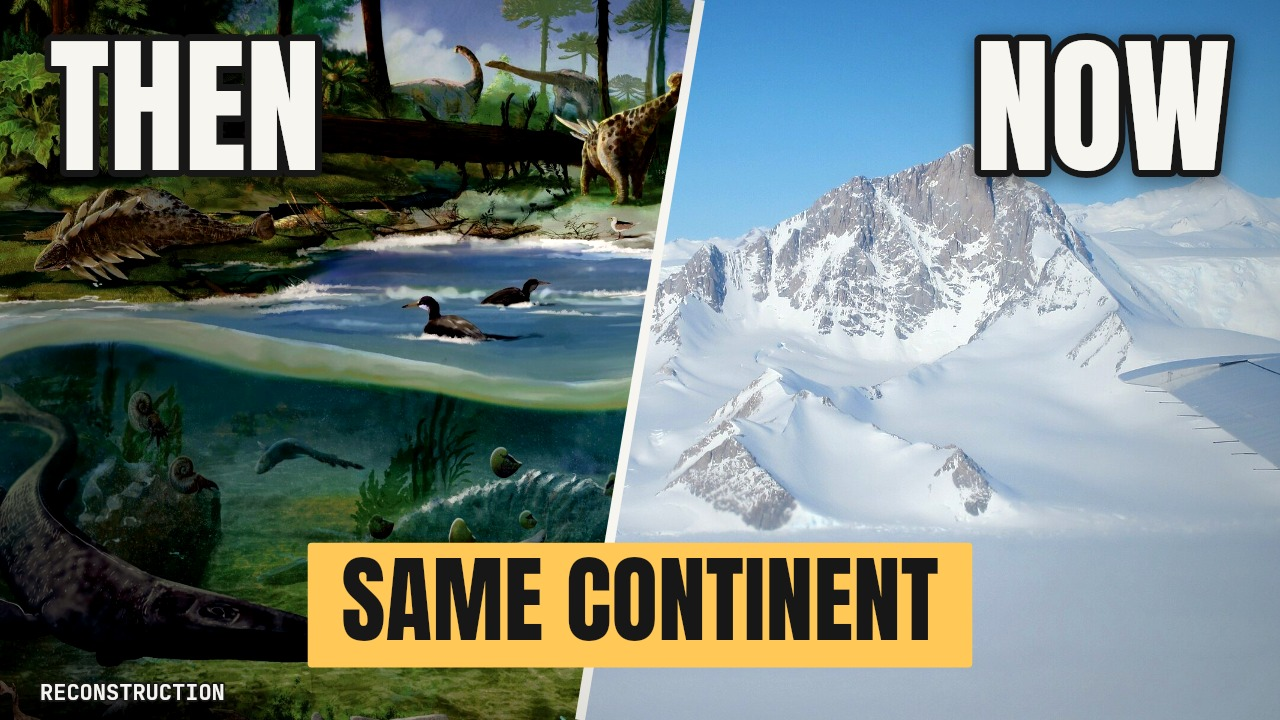
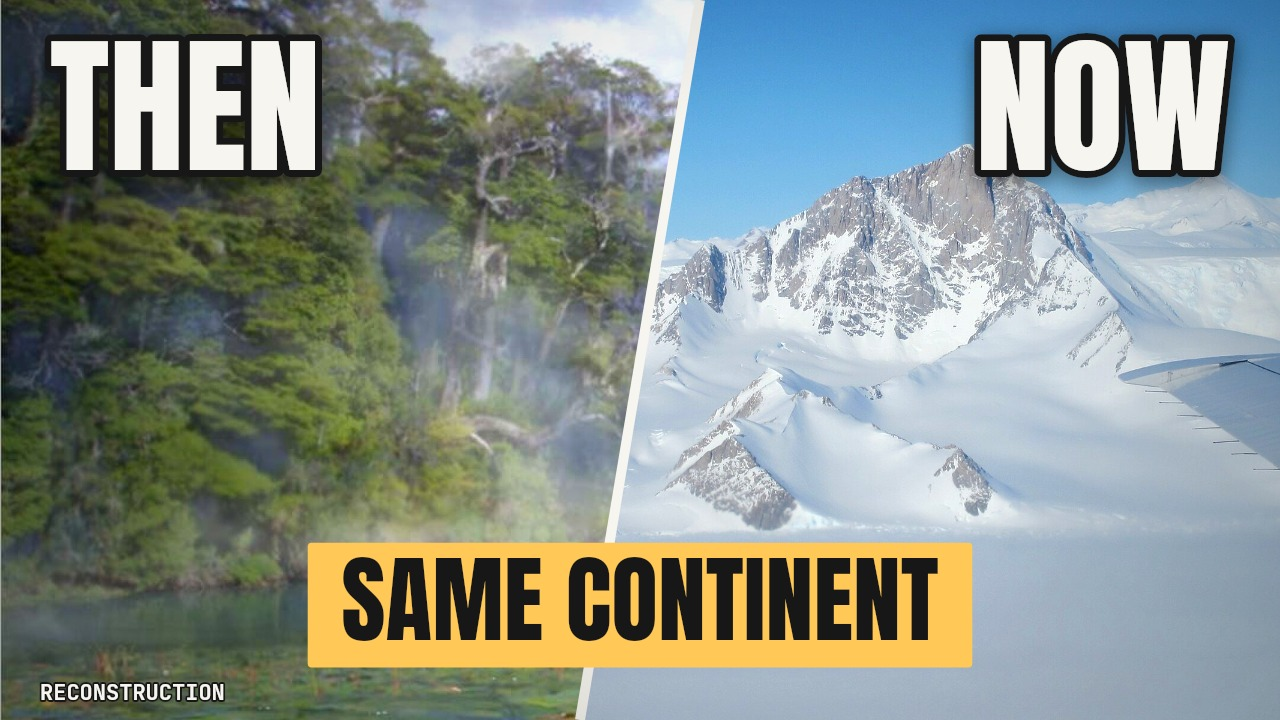
EP13 critic fixes v2: shots, covers, kit
Claude-Session: https://claude.ai/code/session_01RM84ZkH4GSp4TtDDAc4P7c

diff --git a/whyhow/ep13_green_antarctica/shots.js b/whyhow/ep13_green_antarctica/shots.js
@@ -75,7 +75,7 @@ function build(T) {
   ]);
   beats('A004', [
     Wd('gov_nasa_lima_transantarctic_peaks', { over: [low('TODAY: THE COLDEST, DRIEST CONTINENT', 'coldest'), note('TRANSANTARCTIC MOUNTAINS (NASA LANDSAT)')] }),
-    A('cm_reconstruction_hanson_formation_eruption', { cutW: 'forests', over: [note('EARLY JURASSIC ANTARCTICA · ' + REC)] }),
+    A('cm_cryolophosaurus_field_museum_mount', { cutW: 'forests', over: [note('ANTARCTIC DINOSAUR CRYOLOPHOSAURUS (CAST), FIELD MUSEUM')] }),
     F('px_tasmania_rainforest_creek_drone', { cutW: 'About', over: [low('~90 MILLION YEARS AGO: A RAINFOREST', 'rainforest'), note('TEMPERATE RAINFOREST, TASMANIA · ' + IL)] }),
     S('globe', ANT({ cutW: 'nine', lon: [[0, -100], [3, -107]], lat: [[0, -78], [3, -80]], R: [[0, 1300], [3, 1700]], pins: [{ ...G.sp, label: 'SOUTH POLE', at: 0.2, small: true, size: 40, color: C('iceL') }, { ...G.amund, label: 'RAINFOREST ROOTS (CORE 2017)', w: 'nine', small: true, size: 40 }], routes: [{ pts: [pt(G.amund), [-100, -86], pt(G.sp)], w: 5, at: 1.2, dur: 1.4, label: '~900 KM (560 MI)', ly: 50 }] })),
   ]);
@@ -86,14 +86,15 @@ function build(T) {
   ]);
   beats('A007', [
     A('cm_reconstruction_great_cretaceous_ocean_1898', { kb: { z: [1.0, 1.15] }, over: [head('THE ASTEROID?', null, 170, 100, Yc), note('"THE GREAT CRETACEOUS OCEAN", 1898 · ' + REC)] }),
-    A('px_palm_forest_mist', { cutW: 'after', kb: { z: [1.25, 1.05] }, over: [low('AFTER IT: EVEN WARMER · PALMS ON THE COAST', 'Palm'), note('PALMS TODAY · ' + IL)] }),
+    F('px_palm_trees_from_below', { cutW: 'after', over: [low('AFTER IT: EVEN WARMER', 'warmer'), note('PALMS TODAY · ' + IL)] }),
+    F('px_jungle_volcano_palms_aerial', { cutW: 'Palm', over: [low('PALMS ON THE COAST', 'Palm'), note('PALM FOREST TODAY · ' + IL)] }),
   ]);
   beats('A008', [
     A('cm_cryolophosaurus_field_museum_aurora', { cutW: 'First', over: [low('1 · DINOSAURS IN THE DARK', 'dinosaurs'), note('CRYOLOPHOSAURUS CAST, FIELD MUSEUM')] }),
     F('gov_nasa_sea_ice_ring_antarctica', { cutW: 'Then', over: [low('2 · THE SLOW FREEZE', 'freeze'), note('NASA VISUALIZATION')] }),
     F('gov_nasa_bedmap2_ice_peels_off', { cutW: 'what', over: [low('3 · WHAT THE ICE HIDES', 'hides'), note('NASA VISUALIZATION (BEDMAP2)')] }),
   ]);
-  add(T.e('A008') + 0.15, S('title', { lines: ['WHEN ANTARCTICA', 'WAS GREEN'], hl: 1, img: 'cm_reconstruction_snow_hill_island_cretaceous', credit: credit('cm_reconstruction_snow_hill_island_cretaceous') + ' · reconstruction', brand: true, sfx: 'riser' }), 'cut');
+  add(T.e('A008') + 0.15, S('title', { lines: ['WHEN ANTARCTICA', 'WAS GREEN'], hl: 1, img: 'cm_reconstruction_eocene_antarctic_pond', credit: credit('cm_reconstruction_eocene_antarctic_pond') + ' · reconstruction', brand: true, sfx: 'riser' }), 'cut');
 
   // ===== CH1 =====
   beats('A009', [
@@ -113,7 +114,7 @@ function build(T) {
   ]);
   beats('A012', [A('cm_transantarctic_above_clouds', { over: [low('INDIA HITS ASIA → THE HIMALAYAS', 'Himalayas'), note('HIGH PEAKS (TRANSANTARCTIC MOUNTAINS) · ' + IL)] })]);
   beats('A013', [
-    A('cm_map_gondwana_breakup_80ma_grobe', { over: [note('MAP: 80 MILLION YEARS AGO (H. GROBE / AWI)')] }),
+    A('cm_map_south_atlantic_opens_126ma', { over: [note('MAP: 126 MILLION YEARS AGO (GPLATES)')] }),
     A('cm_map_gondwana_breakup_65ma_grobe', { cutW: 'Animals', over: [low('STILL JOINED TO SOUTH AMERICA AND AUSTRALIA', 'joined'), note('MAP: 65 MILLION YEARS AGO')] }),
     S('globe', ANT({ cutW: 'by', pins: [{ ...G.sp, label: 'SOUTH POLE', at: 0.2, small: true, size: 40 }] })),
   ]);
@@ -141,13 +142,13 @@ function build(T) {
     A('cm_reconstruction_glacialisaurus_model', { cutW: 'Two', over: [note('MUSEUM MODEL: GLACIALISAURUS AND CRYOLOPHOSAURUS · ' + REC)] }),
   ]);
   beats('A019', [
-    A('cm_reconstruction_snow_hill_island_cretaceous', { over: [note('LATE CRETACEOUS ANTARCTICA · ' + REC + ' · M. CHARNELLI')] }),
+    A('cm_reconstruction_antarctopelta_vegavis_drawing', { over: [note('LATE CRETACEOUS ANTARCTICA · ' + REC)] }),
     S('globe', ANT({ cutW: 'In', lon: [[0, -100], [3, -107]], lat: [[0, -72], [3, -74]], R: [[0, 1700], [3, 3200]], pins: [{ ...G.amund, label: 'AMUNDSEN SEA CORE, 2017', at: 0.4, small: true, size: 44 }] })),
-    F('px_tasmania_rainforest_creek_drone', { cutW: 'The', in: 3, over: [low('SOIL + A 3-M WEB OF FOSSIL ROOTS', 'roots'), note('SWAMPY TEMPERATE RAINFOREST, TASMANIA · ' + IL)] }),
+    F('px_misty_conifer_forest_hills', { cutW: 'The', over: [low('SOIL + A 3-M WEB OF FOSSIL ROOTS', 'roots'), note('SWAMPY TEMPERATE RAINFOREST, TASMANIA · ' + IL)] }),
     A('cm_andrill_core_table', { cutW: 'swampy', over: [note('A SEABED CORE FROM ANTARCTICA (ANDRILL) · ' + IL)] }),
   ]);
   beats('A020', [
-    S('stats', { head: 'NOVEMBER 2024', items: [], sfx: 'boom', over: [at(head('THE FIRST AMBER', null, 500, 110, Yc), 0.3), at(head('EVER FOUND IN ANTARCTICA', null, 630, 70), 0.6)], source: 'Source: Alfred Wegener Institute (AWI), Antarctic Science 2024' }),
+    S('stats', { head: 'NOVEMBER 2024', items: [], sfx: 'boom', over: [at(head('THE FIRST AMBER', null, 500, 110, Yc), 0.05), at(head('EVER FOUND IN ANTARCTICA', null, 630, 70), 0.3)], source: 'Source: Alfred Wegener Institute (AWI), Antarctic Science 2024' }),
     A('px_monkey_puzzle_cones', { cutW: 'Drops', over: [note('CONIFER (ARAUCARIA) TODAY · ' + IL)] }),
   ]);
   beats('A021', [
@@ -158,12 +159,12 @@ function build(T) {
     A('cm_long_island_view_james_ross_2003', { over: [low('JAMES ROSS ISLAND, 1986', 'James'), note('LOOKING TO JAMES ROSS ISLAND, 2003')] }),
     A('cm_antarctopelta_jaw_fossil', { cutW: 'found', over: [low('EDUARDO OLIVERO & ROBERTO SCASSO', 'Olivero'), note('ANTARCTOPELTA: LOWER JAW (REAL FOSSIL)')] }),
     A('cm_reconstruction_antarctopelta', { cutW: 'Antarctopelta', over: [note(REC + ' · L. MARTINEZ-REZA')] }),
-    A('cm_reconstruction_antarctopelta_model', { cutW: 'For', over: [low('"THE FIRST DINOSAUR FOUND IN ANTARCTICA"', 'first'), note('MUSEUM MODEL · ' + REC)] }),
+    A('cm_reconstruction_antarctopelta_model', { cutW: 'For', over: [low('FOR 40 YEARS: "THE FIRST"', 'first'), note('MUSEUM MODEL · ' + REC)] }),
   ]);
   beats('A023', [
     S('stats', { head: '2026', items: [], sfx: 'boom', over: [at(head('40 YEARS IN A DRAWER', null, 520, 110, Yc), 0.3), { ...chipC('BRITISH ANTARCTIC SURVEY', null, 680, 44), w: 'Survey' }], source: 'Source: Barrett et al. 2026 (BAS)' }),
     A('cm_sauropodomorph_bones_antarctica', { cutW: 'titanosaur', over: [note('LONG-NECKED DINOSAUR BONES FROM ANTARCTICA (FIELD MUSEUM) · ' + IL)] }),
-    S('stats', { cutW: 'December', head: 'MICHAEL THOMSON, GEOLOGIST', items: [], over: [at(head('9 DECEMBER 1985', null, 520, 100, Yc), 0.3), { ...chipC('ONE MONTH EARLIER', null, 680, 50), w: 'month' }] }),
+    S('stats', { cutW: 'December', head: 'MICHAEL THOMSON, GEOLOGIST', items: [], over: [at(head('9 DECEMBER 1985', null, 520, 100, Yc), 0.05), { ...chipC('ONE MONTH EARLIER', null, 680, 50), w: 'month' }] }),
   ]);
   beats('A024', [
     A('cm_reconstruction_trinisaura_mendez', { over: [note('TRINISAURA · ' + REC)] }),
@@ -173,7 +174,7 @@ function build(T) {
   beats('A025', [
     S('globe', { relief: true, borders: false, lon: [[0, -150], [3, -151]], lat: [[0, 60], [3, 66]], R: [[0, 900], [3, 1500]], pins: [{ ...G.alaska, label: 'NORTHERN ALASKA, 2021', at: 0.4, small: true, size: 44 }] }),
     A('cm_reconstruction_leaellynasaura_side', { cutW: 'A', over: [low('BABY DINOSAURS, JUST HATCHED', 'baby'), note('A SMALL POLAR DINOSAUR · ' + REC)] }),
-    A('cm_reconstruction_leaellynasaura_polar_coast', { cutW: 'So', kb: { z: [1.25, 1.05] }, over: [low('THEY STAYED THROUGH THE POLAR NIGHT', 'stayed'), note(REC)] }),
+    A('cm_reconstruction_trinisaura_martinez', { cutW: 'So', over: [low('THEY STAYED THROUGH THE POLAR NIGHT', 'stayed'), note('TRINISAURA · ' + REC)] }),
   ]);
   beats('A026', [
     A('cm_taniwhasaurus_mosasaur_field_museum', { over: [note('ANTARCTIC MOSASAUR TANIWHASAURUS (CAST), FIELD MUSEUM')] }),
@@ -201,25 +202,25 @@ function build(T) {
     F('ia_1967_navy_icebreaker_eastwind', { cutW: 'The', over: [low('CARLOTA ESCUTIA & HENK BRINKHUIS', 'Escutia'), note('A SHIP IN ANTARCTIC ICE, 1960s · ' + IL)] }),
   ]);
   beats('A032', [
-    A('px_palm_forest_mist', { over: [low('53 MILLION YEARS AGO: PALM POLLEN', 'palm'), note('PALMS IN MIST TODAY · ' + IL)] }),
+    F('px_fern_jungle_greenhouse', { over: [low('53 MILLION YEARS AGO: PALM POLLEN', 'palm'), note('PALMS AND FERNS (BOTANICAL GARDEN) · ' + IL)] }),
     A('px_baobab_tarangire', { cutW: 'relatives', over: [low('AND BAOBAB RELATIVES', 'baobab'), note('BAOBAB, TANZANIA · ' + IL)] }),
     F('px_rainforest_clouds_hills', { cutW: 'On', over: [note('A NEAR-TROPICAL RAINFOREST · ' + IL)] }),
   ]);
   beats('A033', [S('ladder', { title: 'THE COAST OF ANTARCTICA, ~53 MILLION YEARS AGO', min: -30, max: 30, items: [{ v: 10, label: 'EVEN IN WINTER: ABOVE +10°C', sub: '50°F · IN THE POLAR NIGHT', w: 'ten', hl: true }], source: 'Source: Pross et al. 2012, Nature' })]);
   beats('A034', [
-    A('cm_seymour_island_landscape_2023', { kb: { z: [1.3, 1.1] }, over: [low('SEYMOUR ISLAND, 1982', 'Seymour'), note('SEYMOUR ISLAND TODAY')] }),
+    A('cm_marambio_base_seymour_aerial_2023', { kb: { z: [1.35, 1.15] }, over: [low('SEYMOUR ISLAND: THE FIRST ANTARCTIC MAMMAL (1982)', 'Seymour'), note('SEYMOUR ISLAND, 2023')] }),
     A('cm_reconstruction_eocene_antarctic_pond', { cutW: 'It', over: [low('A MARSUPIAL: THE FIRST LAND MAMMAL FROM ANTARCTICA', 'marsupial'), note('EOCENE ANTARCTICA · ' + REC)] }),
     A('cm_llanocetus_whale_skull_seymour', { cutW: 'first', over: [note('ALSO FROM SEYMOUR: AN EOCENE WHALE SKULL (REAL FOSSIL)')] }),
   ]);
   beats('A035', [
-    A('cm_map_gondwana_breakup_53ma_grobe', { over: [low('SOUTH AMERICA → ANTARCTICA → AUSTRALIA', 'bridge'), note('MAP: 53 MILLION YEARS AGO (H. GROBE / AWI)')] }),
+    F('gov_nasa_continental_drift_atlantic_opens', { over: [low('SOUTH AMERICA → ANTARCTICA → AUSTRALIA', 'bridge'), note('NASA VISUALIZATION: CONTINENTAL DRIFT')] }),
     A('px_tasmania_forest_boardwalk', { cutW: 'Australia\'s', over: [low('KOALAS, KANGAROOS: PROBABLY THIS WAY', 'koalas'), note('SOUTHERN BEECH FOREST, TASMANIA · ' + IL)] }),
   ]);
   beats('A036', [A('cm_reconstruction_kumimanu_nobu_tamura', { over: [low("ANTARCTICA'S LAST SUMMER", 'last'), note('GIANT FOSSIL PENGUIN · ' + REC + ' · NOBU TAMURA')] })]);
 
   // ===== CH4 =====
   chapter('A037', 3, 'The slow freeze');
-  beats('A037', [S('stats', { head: 'OVER MILLIONS OF YEARS', items: [], over: [at(head('CARBON DIOXIDE FELL', null, 540, 100, Yc), 0.3)], source: 'Sources: Pagani et al. 2011; DeConto & Pollard 2003' })]);
+  beats('A037', [S('stats', { head: 'OVER MILLIONS OF YEARS', items: [], over: [at(head('CARBON DIOXIDE FELL', null, 540, 100, Yc), 0.05)], source: 'Sources: Pagani et al. 2011; DeConto & Pollard 2003' })]);
   beats('A038', [
     A('cm_royal_society_range_noaa_1999', { over: [low('ONE LEADING IDEA: THE HIMALAYAS', 'Himalayas'), note('ROYAL SOCIETY RANGE, ANTARCTICA (NOAA) · ' + IL)] }),
     A('cm_apocalypse_peaks_aster', { cutW: 'That', over: [low('WEATHERING LOCKS CO₂ INTO STONE', 'stone'), note('BARE ROCK FROM SPACE (NASA ASTER) · ' + IL)] }),
@@ -238,7 +239,7 @@ function build(T) {
   beats('A041', [
     F('gov_nasa_perpetual_ocean_australia_southern', { over: [low('THE WALL: A HELPER, NOT THE CAUSE', 'helper'), note('NASA PERPETUAL OCEAN')] }),
     S('stats', { cutW: 'In', head: '2003', items: [], over: [at(head('ROBERT DECONTO & DAVID POLLARD', null, 520, 80, Yc), 0.3)], source: 'Source: DeConto & Pollard 2003, Nature' }),
-    F('gov_nasa_sea_ice_growth_2024', { cutW: 'below', over: [low('BELOW A CO₂ THRESHOLD, ICE COULD STAY', 'stay'), note('NASA VISUALIZATION (TODAY\'S SEA ICE) · ' + IL)] }),
+    F('gov_nasa_sea_ice_growth_2024', { cutW: 'switch', over: [low('BELOW A CO₂ THRESHOLD, ICE COULD STAY', 'stay'), note('NASA VISUALIZATION (TODAY\'S SEA ICE) · ' + IL)] }),
   ]);
   beats('A042', [
     F('gov_nasa_sea_ice_ring_antarctica', { in: 2, over: [low('~34 MILLION YEARS AGO', 'thirty-four'), note('NASA VISUALIZATION (TODAY\'S ICE) · ' + IL)] }),
@@ -293,11 +294,11 @@ function build(T) {
   beats('A053', [F('gov_nasa_globe_africa_to_antarctica', { over: [note('NASA VISUALIZATION')] })]);
   beats('A054', [
     S('stats', { head: 'NOT THE DRIFT', items: [], over: [at(head('IT WAS AT THE POLE WHEN IT WAS GREEN', null, 540, 64), 0.3)] }),
-    S('stats', { cutW: 'Not', head: 'NOT THE ASTEROID', items: [], over: [at(head('IT GOT WARMER AFTERWARDS', null, 540, 76), 0.3)] }),
+    F('gov_nasa_globe_americas_to_antarctica', { cutW: 'Not', over: [low('NOT THE ASTEROID: IT GOT WARMER AFTERWARDS', 'warmer'), note('NASA VISUALIZATION')] }),
   ]);
   beats('A055', [
     S('stats', { head: 'WHY ANTARCTICA FROZE', items: [], over: [at(head('1 · CARBON DIOXIDE FELL', null, 480, 84, Yc), 0.3), { ...head('2 · THE OCEAN CLOSED A RING', null, 620, 84), w: 'ocean' }], source: 'Sources: DeConto & Pollard 2003; Pagani et al. 2011' }),
-    F('gov_nasa_perpetual_ocean_south_america_antarctica', { cutW: 'the', over: [note('NASA PERPETUAL OCEAN')] }),
+    F('gov_nasa_ocean_flows_toward_ice', { cutW: 'the', over: [note('NASA VISUALIZATION: OCEAN CURRENTS')] }),
   ]);
   beats('A056', [
     S('stats', { head: 'CARBON DIOXIDE TODAY', items: [], sfx: 'boom', over: [at(head('> 420 PPM', null, 520, 140, Yc), 0.3), { ...chipC('PRE-INDUSTRIAL: ~280 PPM', null, 690, 46), at: 1.0 }], source: 'Source: NOAA' }),
@@ -320,7 +321,7 @@ function build(T) {
   // ===== ENDING =====
   beats('A060A', [
     A('cm_reconstruction_cryolophosaurus_side', { over: [head('WHICH ANTARCTICA WOULD YOU VISIT?', null, 180, 70), note(REC)] }),
-    A('cm_reconstruction_eocene_antarctic_pond', { cutW: 'among', kb: { z: [1.2, 1.05] }, over: [note('EOCENE ANTARCTICA · ' + REC)] }),
+    A('cm_cryolophosaurus_field_museum_wide', { cutW: 'among', over: [note('CRYOLOPHOSAURUS CAST, FIELD MUSEUM')] }),
   ]);
   beats('A060', [
     A('cm_scott_1911_wilson_sketching_beardmore', { kb: { z: [1.2, 1.05] }, over: [low('NATURAL HISTORY MUSEUM, LONDON', 'London'), note('DR EDWARD WILSON, BEARDMORE GLACIER, 1911')] }),

diff --git a/whyhow/ep13_green_antarctica/cover.js b/whyhow/ep13_green_antarctica/cover.js
@@ -12,6 +12,7 @@ const T = (ctx, s, x, y, size, color, align) => text(ctx, s, x, y, { size, font:
     const g = ctx.createLinearGradient(0, 0, 760, 0); g.addColorStop(0, 'rgba(6,12,24,1)'); g.addColorStop(0.55, 'rgba(6,12,24,0.85)'); g.addColorStop(1, 'rgba(6,12,24,0)'); ctx.fillStyle = g; ctx.fillRect(0, 0, 800, H); vign(ctx, 0.5);
     ctx.save(); ctx.translate(50, 120); chip(ctx, '190 MILLION YEARS AGO', 0, 0, { size: 50, bg: C.red, color: C.cream }); ctx.restore();
     T(ctx, 'DINOSAURS', 44, 330, 160);
+    text(ctx, 'MUSEUM CAST', 1230, 690, { size: 26, font: F.monoB, color: C.cream, align: 'right', stroke: 5, strokeColor: C.ink });
     ctx.save(); ctx.translate(50, 470); chip(ctx, 'IN ANTARCTICA', 0, 0, { size: 104, bg: C.yellow, color: C.ink }); ctx.restore();
     fs.writeFileSync(process.argv[2], cv.toBuffer('image/jpeg', 92)); }
   // B: NASA bedrock under the ice
@@ -22,7 +23,7 @@ const T = (ctx, s, x, y, size, color, align) => text(ctx, s, x, y, { size, font:
     ctx.save(); ctx.translate(W / 2, 640); chip(ctx, 'THE DEEPEST CANYON ON LAND', 0, 0, { size: 84, bg: C.yellow, color: C.ink, align: 'center' }); ctx.restore();
     fs.writeFileSync(process.argv[3], cv.toBuffer('image/jpeg', 92)); }
   // C: THEN (paleoart) / NOW (real aerial) split
-  { const cv = K.createCanvas(W, H), ctx = cv.getContext('2d'); const a = await img('cm_reconstruction_snow_hill_island_cretaceous'), b = await img('cm_transantarctic_beardmore_icebridge_2013');
+  { const cv = K.createCanvas(W, H), ctx = cv.getContext('2d'); const a = await img('cm_reconstruction_eocene_antarctic_pond'), b = await img('cm_transantarctic_beardmore_icebridge_2013');
     ctx.save(); ctx.beginPath(); ctx.moveTo(0, 0); ctx.lineTo(700, 0); ctx.lineTo(580, H); ctx.lineTo(0, H); ctx.clip(); ctx.filter = 'saturate(1.35) contrast(1.15)'; ctx.drawImage(a, 0, 100, 1300, 1100, 0, 0, 700 * 1.1, H); ctx.restore();
     ctx.save(); ctx.beginPath(); ctx.moveTo(700, 0); ctx.lineTo(W, 0); ctx.lineTo(W, H); ctx.lineTo(580, H); ctx.clip(); ctx.filter = 'contrast(1.2)'; ctx.drawImage(b, 500, 0, 1200, 1080, 560, 0, 720, H); ctx.restore();
     ctx.strokeStyle = C.cream; ctx.lineWidth = 10; ctx.beginPath(); ctx.moveTo(700, 0); ctx.lineTo(580, H); ctx.stroke(); vign(ctx, 0.4);

diff --git a/whyhow/ep13_green_antarctica/upload_kit.md b/whyhow/ep13_green_antarctica/upload_kit.md
@@ -4,10 +4,10 @@
 
 **Mid-roll ads:** the video is over 8 minutes, so mid-rolls are allowed. Place them on chapter breaks at about 5:19 and 8:57.
 
-**Thumbnails** (1280×720): test C against A in YouTube "Test & compare"; B is a spare.
-- `antarctica_cover_C.jpg` (main): THEN / NOW. On the left is licensed paleoart, labelled RECONSTRUCTION; on the right is a real NASA aerial of the Transantarctic Mountains. Text: "SAME CONTINENT".
-- `antarctica_cover_A.jpg`: a museum cast of the Cryolophosaurus skull. Text: "190 MILLION YEARS AGO · DINOSAURS IN ANTARCTICA".
-- `antarctica_cover_B.jpg`: NASA BedMachine view of the Denman canyon. Text: "UNDER THE ICE · THE DEEPEST CANYON ON LAND".
+**Thumbnails** (1280×720; test A against C in YouTube "Test & compare"; B is a spare):
+- `antarctica_cover_A.jpg` (main): a museum cast of the Cryolophosaurus skull. Text: "190 MILLION YEARS AGO · DINOSAURS IN ANTARCTICA", plus a small "MUSEUM CAST" tag.
+- `antarctica_cover_C.jpg`: "THEN / NOW / SAME CONTINENT". On the left, a licensed reconstruction of an Eocene Antarctic beech forest (no dinosaurs, no palms); on the right, a real NASA aerial of the Transantarctic Mountains.
+- `antarctica_cover_B.jpg`: a NASA BedMachine view of the Denman canyon. Text: "UNDER THE ICE · THE DEEPEST CANYON ON LAND".
 
 **Subtitles:** `antarctica_subtitles_en.srt` (English).
 
@@ -30,7 +30,7 @@ What is on screen:
 Antarctica Had Dinosaurs and Rainforests. So Why Did It Freeze?
 
 Alternatives (for an A/B title test):
-- What Antarctica Looked Like Before the Ice (pair with cover C)
+- What Antarctica Looked Like Before the Ice (pairs with cover C)
 - The Rainforest 560 Miles From the South Pole
 
 ## Description
@@ -69,7 +69,7 @@ antarctica, antarctica before the ice, green antarctica, antarctica dinosaurs, c
 Paste `SOURCES.md` (the numbered list) + `CREDITS.md`.
 
 ## Honesty notes
-- Dinosaurs and palm trees are 13 million years apart and are never shown together; the THEN image on cover C shows Late Cretaceous life only.
+- Dinosaurs and palm trees are 13 million years apart and are never shown together; the THEN image on cover C is an Eocene forest with no animals.
 - The main cause of the freeze is falling CO2; the ocean gateways helped, and when Drake Passage opened is still debated.
 - Errors in the reference film that we do not repeat:
   - the record cold was in 1983, not 1982;
